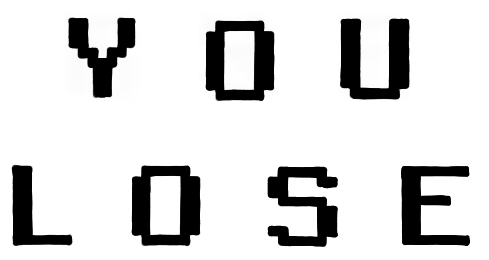
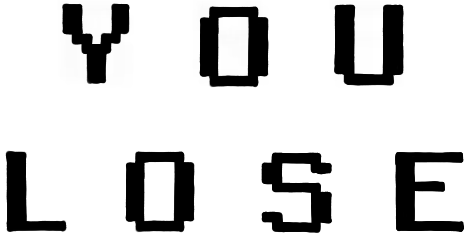
fixed positions on GameOverView
fixed positions on both game over view and multiplayer game over view

diff --git a/core/src/com/fallingangel/view/GameOverMultiPlayerView.java b/core/src/com/fallingangel/view/GameOverMultiPlayerView.java
@@ -47,11 +47,18 @@ public class GameOverMultiPlayerView extends ScreenAdapter {
         game.batch.begin();
         game.batch.draw(Asset.gameOverMultiBackgroundTexture, 0, 0, Gdx.graphics.getWidth(), Gdx.graphics.getHeight());
         if (FallingAngel.getInstance().FBI.gameOverStatus().equals("gameWon")){
-            game.batch.draw(Asset.youWin, Gdx.graphics.getWidth()/2 - Asset.youWin.getWidth()/2, Gdx.graphics.getHeight()*3/4);
+            game.batch.draw(Asset.youWin, Gdx.graphics.getWidth()*0.5f - Asset.youWin.getWidth()*0.5f, Gdx.graphics.getHeight()*0.81f);
         }
         else {
-            game.batch.draw(Asset.youLose, Gdx.graphics.getWidth()/2 - Asset.youLose.getWidth()/2, Gdx.graphics.getHeight()*3/4);
+            game.batch.draw(Asset.youLose, Gdx.graphics.getWidth()*0.5f - Asset.youLose.getWidth()*0.5f, Gdx.graphics.getHeight()*0.81f);
         }
+        // her er riktig str på tie text:)
+        /*
+        else {
+            game.batch.draw(Asset.tie, Gdx.graphics.getWidth()*0.5f - Asset.tie.getWidth()*0.5f, Gdx.graphics.getHeight()*0.81f);
+        }
+
+         */
         game.batch.end();
         stage.addActor(exitButton);
         stage.draw();
